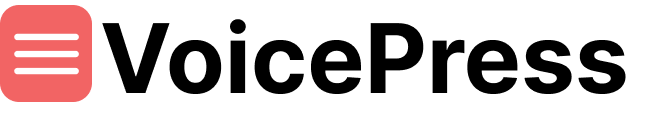
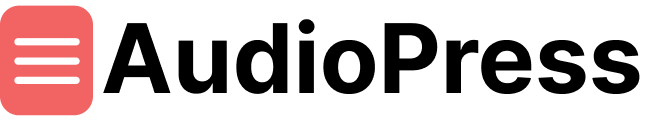
login setup done

diff --git a/client/src/Pages/Login.jsx b/client/src/Pages/Login.jsx
@@ -2,9 +2,43 @@ import React from 'react';
 import LoginImage from '../Media/Login-image.png';
 import {Link} from 'react-router-dom'
 // import { FcGoogle } from "react-icons/fc";
-import Logo from '../Media/LandingPage/Logo.png' ; 
+// import Logo from '../Media/LandingPage/Logo.png' ; 
+import {useState} from 'react' ; 
+import axios from 'axios' ; 
+import { useNavigate } from 'react-router-dom';
+
 
 function Login() {
+
+const [values,setValues]=useState({
+  email:'',
+  password:'',
+}) ; 
+
+const navigate = useNavigate() ; 
+
+const handleSubmit = async (e) => {
+  e.preventDefault();
+
+  try {
+    const res = await axios.post('http://localhost:5000/api/user/Login', values);
+    
+    if (res.data.Status === "Success") {
+      alert("Welcome to AudioPress!");
+      navigate("/LoginDashboard");
+    } else if (res.data.Error === "User not found") {
+      alert("User not found!");
+    } else if (res.data.Error === "Password Does not match") {
+      alert("Invalid Email or Password");
+    } else {
+      alert("Unexpected error!");
+    }
+  } catch (err) {
+    console.log(err);
+    alert("Error Logging In!");
+  }
+};
+
   return (
     <>
       <div className='Login w-screen h-screen flex'>
@@ -12,23 +46,22 @@ function Login() {
           <img src={LoginImage} alt="Login" className='w-80 h-16' />
         </div>
         <div className='login-form-container w-1/2 h-screen flex items-center justify-center'>
-          <form className='login-form bg-white p-8   '>
+          <form className='login-form bg-white p-8   ' onSubmit={handleSubmit}>
             
-            <h2 className='text-2xl font-bold mb-6'>Welcome back to VoicePress! </h2>
+            <h2 className='text-2xl font-bold mb-6'>Welcome back to AudioPress! </h2>
             <h4 className='p-2'>Don't have an Account ? <Link to='/Register'><b>Register</b></Link></h4>
             <h4 className='p-2'>Cant Login  ? <Link to='/ForgotPassword'><b>Forgot Password</b></Link></h4>
-            {/* <button className=' border border-black w-48 flex items-center justify-center'><FcGoogle  className=''/></button> */}
-            {/* <div className='input-field mb-4'>
-              <label className='block text-gray-700 text-sm font-bold mb-2' htmlFor='full-name'>Full Name</label>
-              <input type='text' id='full-name' className='w-full p-2 my-2 border border-gray-300 rounded' />
-            </div> */}
+           
             <div className='input-field mb-4'>
               <label className='block text-gray-700 text-sm font-bold mb-2' htmlFor='email'>Email</label>
-              <input type='email' id='email' className='w-full my-2 p-2 border border-gray-300 rounded' />
+              <input type='email' id='email' className='w-full my-2 p-2 border border-gray-300 rounded' 
+              onChange={(e)=>setValues({...values,email:e.target.value})}
+              />
             </div>
             <div className='input-field mb-4'>
               <label className='block text-gray-700 text-sm font-bold mb-2' htmlFor='password'>Password</label>
-              <input type='password' id='password' className='w-full my-2 p-2 border border-gray-300 rounded' />
+              <input type='password' id='password' className='w-full my-2 p-2 border border-gray-300 rounded' 
+                  onChange={(e)=>setValues({...values,password:e.target.value})}/>
             </div>
             
             <button type='submit' className='w-full bg-blue-500 text-white p-2 rounded hover:bg-blue-700 transition duration-200'>Submit</button>

diff --git a/server/Controllers/User.js b/server/Controllers/User.js
@@ -50,11 +50,45 @@ async function handleSignup(req, res) {
         return res.json({ Error: 'Internal Server Error' });
     }
 }
-async function handleLogin(req,res){ 
-    const {email,password} = req.body ; 
 
+//LOGIN USER 
+async function handleLogin(req, res) {
+    const loginUser = 'SELECT * FROM USER_SIGNUP WHERE email=?';
+    const value = req.body.email;
+
+    try {
+        const dbConnection = await sqlConnection();
+
+        dbConnection.query(loginUser, value, (err, result) => {
+            if (err) {
+                console.error("Database query error:", err);
+                return res.status(500).json({ Error: "Unexpected Error" });
+            }
+
+            if (result.length > 0) {
+                // email exists
+                // check password matches the database or not 
+                bcrypt.compare(req.body.password.toString(), result[0].password, (err, isMatch) => {
+                    if (err) {
+                        console.error("Password comparison error:", err);
+                        return res.status(500).json({ Error: "Unexpected error in comparing password" });
+                    }
+                    if (isMatch) {
+                        // password matches 
+                        return res.status(200).json({ Status: "Success" });
+                    } else {
+                        return res.status(401).json({ Error: "Password does not match" });
+                    }
+                });
+            } else {
+                return res.status(404).json({ Error: "User not found" });
+            }
+        });
+    } catch (error) {
+        console.error("Unexpected error:", error);
+        return res.status(500).json({ Error: "Unexpected Error" });
+    }
 }
-
 module.exports = {
     handleServer,
     handleSignup,

diff --git a/client/src/Pages/Registration.jsx b/client/src/Pages/Registration.jsx
@@ -41,7 +41,7 @@ function Registration() {
       </div>
       <div className='login-form-container w-1/2 h-screen flex items-center justify-center'>
         <form className='login-form bg-white p-8' onSubmit={handleSubmit}>
-          <h2 className='text-2xl font-bold mb-6'>Register with VoicePress!</h2>
+          <h2 className='text-2xl font-bold mb-6'>Register with AudioPress!</h2>
           <h4 className='p-2'>Already have an Account? <Link to='/Login'><b>Log In</b></Link></h4>
           <button className='w-80 flex items-center justify-evenly ml-2 m-2 p-2 shadow-xl border border-y-2 hover:bg-gray-200'>
             <FcGoogle /><b>Signup with Google Account</b>

diff --git a/client/src/Pages/ForgotPassword.jsx b/client/src/Pages/ForgotPassword.jsx
@@ -15,6 +15,7 @@ function ForgotPassword() {
           <form className='login-form bg-white p-8  w-96 '>
             
             <h2 className='text-2xl font-bold mb-6'>Forgot Password ? </h2>
+            <h4 className='p-0'>Already have an Account? <Link to='/Login'><b>Log In</b></Link></h4>
             <div className='input-field mb-4'>
               <label className='block text-gray-700 text-sm font-bold mb-2' htmlFor='email'>Enter your Registered Email</label>
               <input type='email' id='email' className='w-full my-2 p-2 border border-gray-300 rounded' />

diff --git a/client/public/index.html b/client/public/index.html
@@ -24,7 +24,7 @@
       work correctly both with client-side routing and a non-root public URL.
       Learn how to configure a non-root public URL by running `npm run build`.
     -->
-    <title>VoicePress</title>
+    <title>AudioPress</title>
   </head>
   <body>
     <noscript>You need to enable JavaScript to run this app.</noscript>
